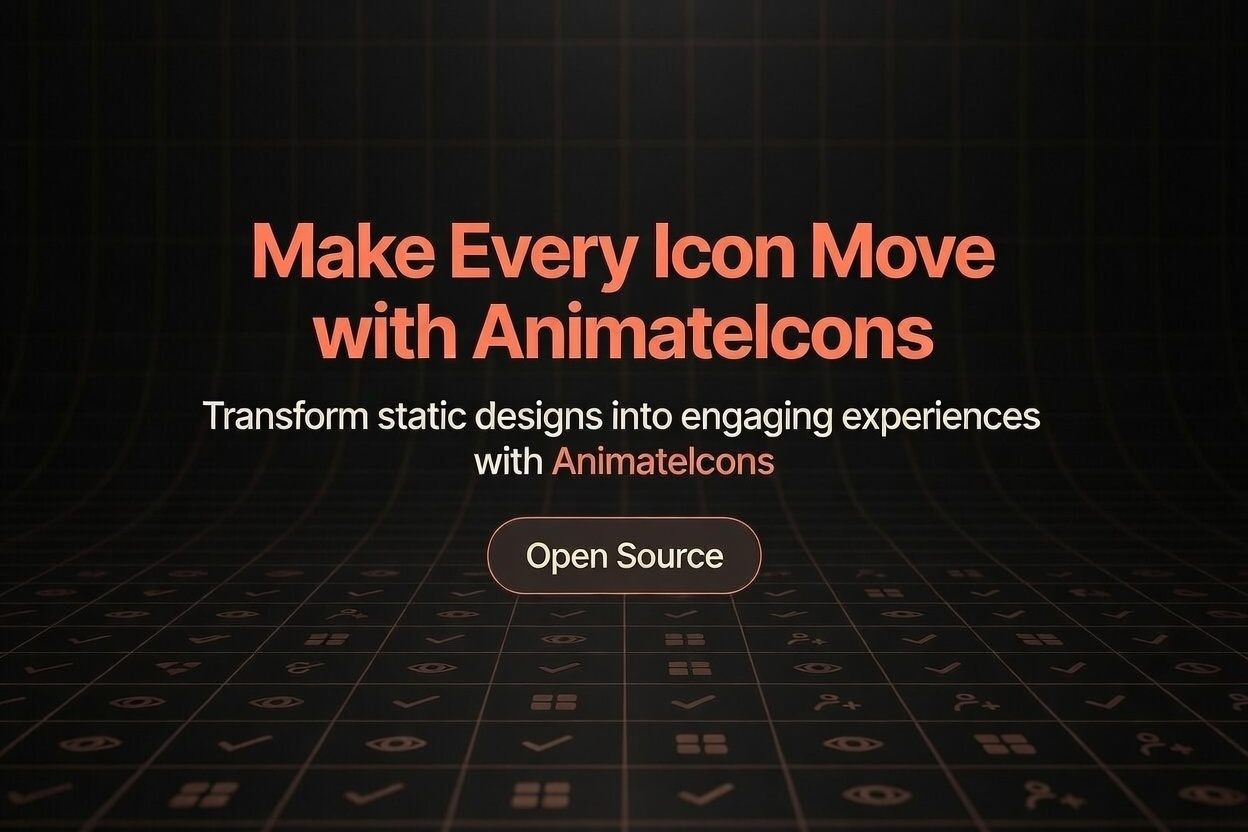
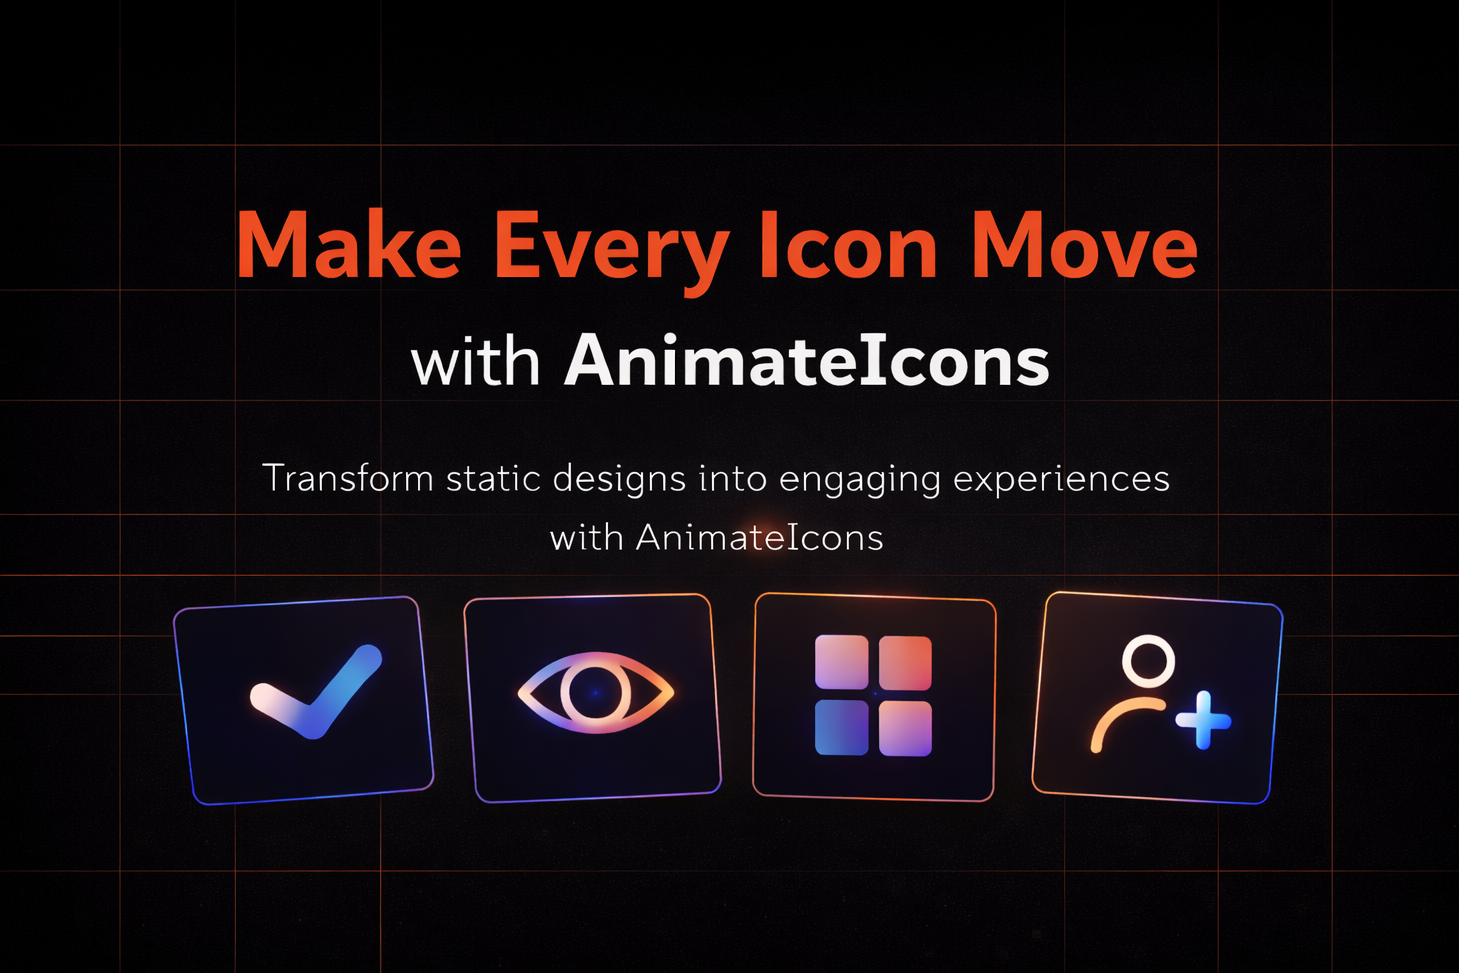
chore(og): update opengraph image and its readme reference

diff --git a/README.md b/README.md
@@ -1,6 +1,6 @@
 # AnimateIcons
 
-![AnimateIcons Preview](./app/opengraph-image.png)
+![AnimateIcons Preview](./public/og.png)
 
 Free and open-source animated SVG icons for React, built for smooth micro-interactions, easy customization, and lightweight performance.
 
